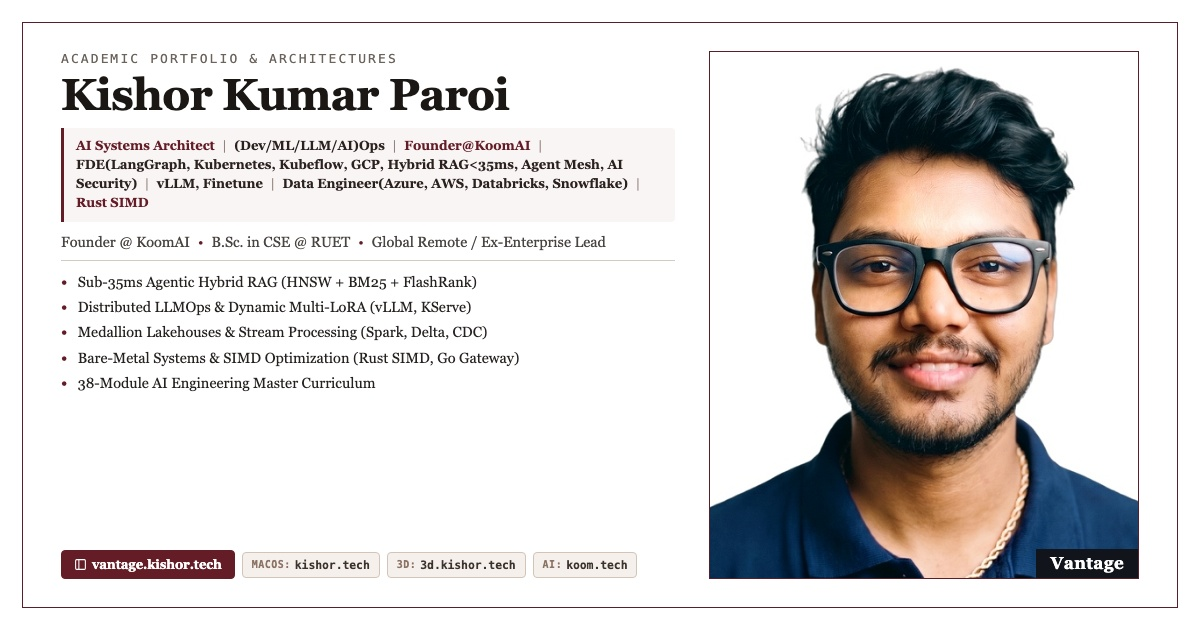
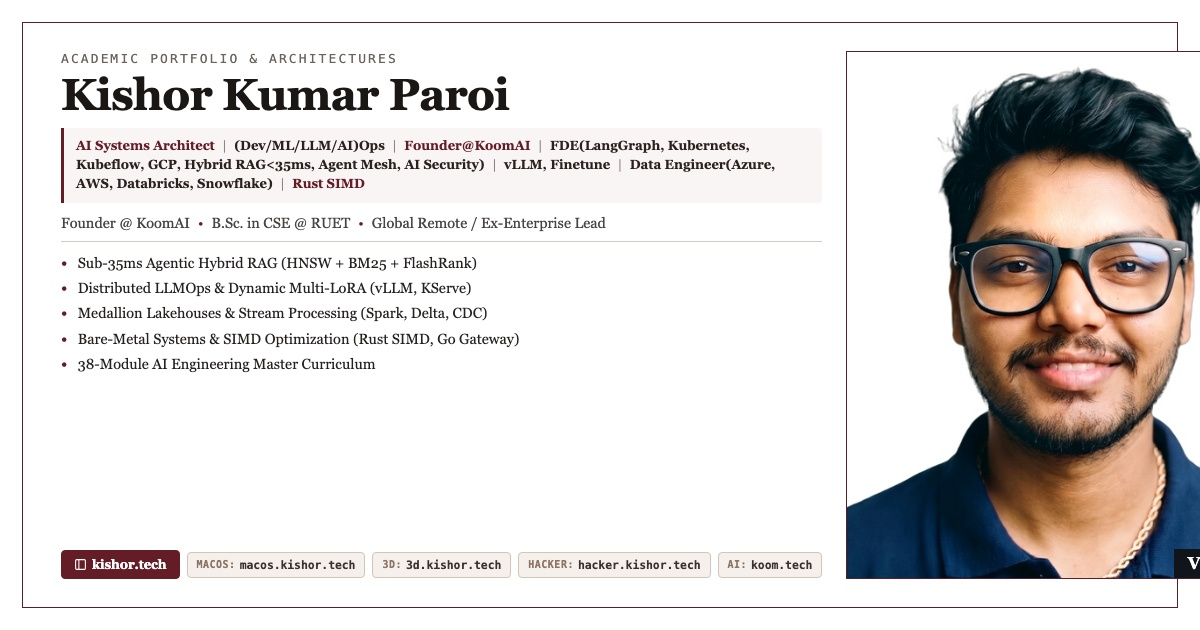
feat(seo): update og-preview card and meta tags to kishor.tech as primary, macos.kishor.tech, and hacker.kishor.tech

diff --git a/index.html b/index.html
@@ -8,11 +8,11 @@
 
     <!-- Open Graph / WhatsApp / Instagram / LinkedIn / Facebook Meta Tags -->
     <meta property="og:type" content="website">
-    <meta property="og:url" content="https://vantage.kishor.tech/">
+    <meta property="og:url" content="https://kishor.tech/">
     <meta property="og:title" content="Kishor Kumar Paroi — Principal AI Systems Architect &amp; Founder @ KoomAI">
     <meta property="og:description" content="AI Systems Architect | (Dev/ML/LLM/AI)Ops | Founder@KoomAI | FDE(LangGraph, Kubernetes, Kubeflow, GCP, Hybrid RAG&lt;35ms, Agent Mesh, AI Security) | vLLM, Finetune | Data Engineer(Azure, AWS, Databricks, Snowflake) | Rust SIMD">
-    <meta property="og:image" content="https://vantage.kishor.tech/og-preview.jpg?v=7">
-    <meta property="og:image:secure_url" content="https://vantage.kishor.tech/og-preview.jpg?v=7">
+    <meta property="og:image" content="https://kishor.tech/og-preview.jpg?v=8">
+    <meta property="og:image:secure_url" content="https://kishor.tech/og-preview.jpg?v=8">
     <meta property="og:image:width" content="1200">
     <meta property="og:image:height" content="630">
     <meta property="og:image:alt" content="Kishor Kumar Paroi — Principal AI Systems Architect">
@@ -24,7 +24,7 @@
     <meta name="twitter:creator" content="@Mr_paroi">
     <meta name="twitter:title" content="Kishor Kumar Paroi — Principal AI Systems Architect">
     <meta name="twitter:description" content="AI Systems Architect | (Dev/ML/LLM/AI)Ops | Founder@KoomAI | FDE(LangGraph, Kubernetes, Kubeflow, GCP, Hybrid RAG&lt;35ms, Agent Mesh, AI Security) | vLLM, Finetune | Data Engineer(Azure, AWS, Databricks, Snowflake) | Rust SIMD">
-    <meta name="twitter:image" content="https://vantage.kishor.tech/og-preview.jpg?v=7">
+    <meta name="twitter:image" content="https://kishor.tech/og-preview.jpg?v=8">
 
     <link rel="preconnect" href="https://fonts.googleapis.com">
     <link rel="preconnect" href="https://fonts.gstatic.com" crossorigin>
@@ -170,17 +170,20 @@
                           <!-- Live Digital Ecosystem Navigation -->
               <div class="ecosystem-banner">
                 <span class="ecosystem-label">EXPLORE LIVE ECOSYSTEM:</span>
-                <a href="https://kishor.tech" target="_blank" rel="noopener" class="eco-tag">
-                  <span class="eco-dot"></span><strong>kishor.tech</strong> &bull; macOS Desktop Portfolio
+                <a href="https://kishor.tech" class="eco-tag active">
+                  <span class="eco-dot active"></span><strong>kishor.tech</strong> &bull; Main Academic Portfolio
+                </a>
+                <a href="https://macos.kishor.tech" target="_blank" rel="noopener" class="eco-tag">
+                  <span class="eco-dot"></span><strong>macos.kishor.tech</strong> &bull; macOS Desktop Portfolio
                 </a>
                 <a href="https://3d.kishor.tech" target="_blank" rel="noopener" class="eco-tag">
                   <span class="eco-dot"></span><strong>3d.kishor.tech</strong> &bull; Interactive 3D WebGL Platform
                 </a>
+                <a href="https://hacker.kishor.tech" target="_blank" rel="noopener" class="eco-tag">
+                  <span class="eco-dot"></span><strong>hacker.kishor.tech</strong> &bull; 3D Cyber Hacker Workstation
+                </a>
                 <a href="https://koom.kishor.tech" target="_blank" rel="noopener" class="eco-tag">
                   <span class="eco-dot"></span><strong>koom.kishor.tech</strong> &bull; Sub-120ms Video Intelligence
-                </a>
-                <a href="https://vantage.kishor.tech" class="eco-tag active">
-                  <span class="eco-dot active"></span><strong>vantage.kishor.tech</strong> &bull; Vintage Academic Portfolio
                 </a>
               </div>
 

diff --git a/generate_og_card.html b/generate_og_card.html
@@ -224,15 +224,19 @@
         <div class="ecosystem-bar">
           <div class="eco-chip primary">
             <svg width="13" height="13" viewBox="0 0 24 24" fill="none" stroke="currentColor" stroke-width="2" stroke-linecap="round" stroke-linejoin="round"><rect x="3" y="3" width="18" height="18" rx="2" ry="2"></rect><line x1="9" y1="3" x2="9" y2="21"></line></svg>
-            <span>vantage.kishor.tech</span>
+            <span>kishor.tech</span>
           </div>
           <div class="eco-chip">
             <span class="eco-chip-label">macOS:</span>
-            <span>kishor.tech</span>
+            <span>macos.kishor.tech</span>
           </div>
           <div class="eco-chip">
             <span class="eco-chip-label">3D:</span>
             <span>3d.kishor.tech</span>
+          </div>
+          <div class="eco-chip">
+            <span class="eco-chip-label">Hacker:</span>
+            <span>hacker.kishor.tech</span>
           </div>
           <div class="eco-chip">
             <span class="eco-chip-label">AI:</span>
